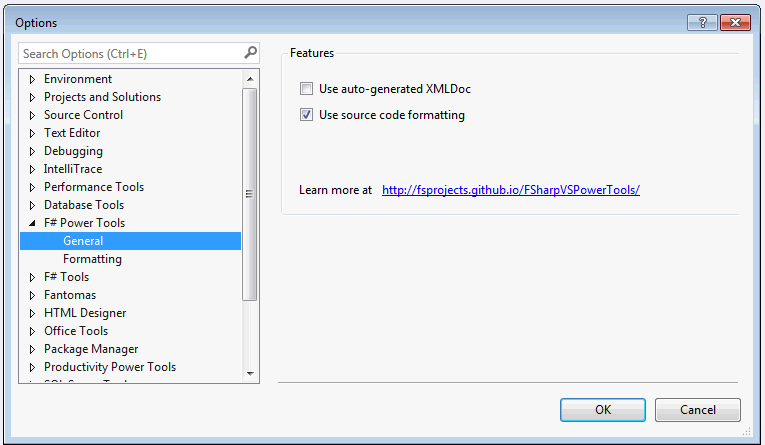
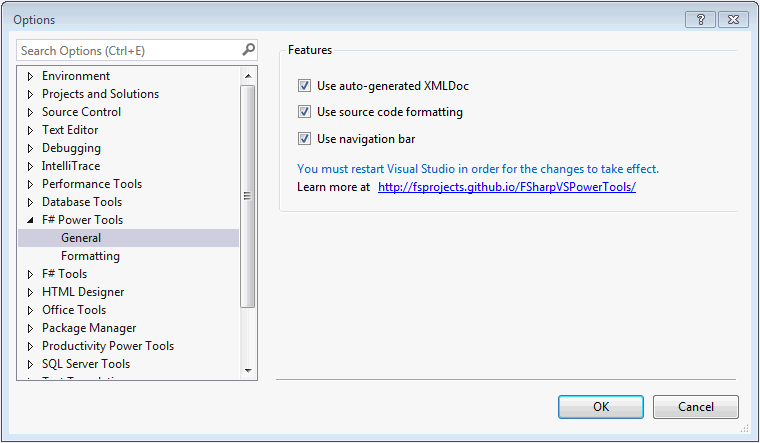
Add navigation bar setting
- [x] Add docs
- [x] Allow users to turn the feature on and off

Changed region(s): [[0.0, 0.0, 0.9987, 1.0], [0.3934, 0.3521, 0.8474, 0.4402], [0.3934, 0.1761, 0.6355, 0.3228]]

diff --git a/src/FSharpVSPowerTools/GeneralOptionsControl.Designer.cs b/src/FSharpVSPowerTools/GeneralOptionsControl.Designer.cs
@@ -29,16 +29,18 @@
         private void InitializeComponent()
         {
             this.grbOptions = new System.Windows.Forms.GroupBox();
+            this.chbNavBar = new System.Windows.Forms.CheckBox();
+            this.lblInfo = new System.Windows.Forms.Label();
             this.lblTitle = new System.Windows.Forms.Label();
             this.lblHome = new System.Windows.Forms.LinkLabel();
             this.chbFormatting = new System.Windows.Forms.CheckBox();
             this.chbXMLDoc = new System.Windows.Forms.CheckBox();
-            this.lblInfo = new System.Windows.Forms.Label();
             this.grbOptions.SuspendLayout();
             this.SuspendLayout();
             // 
             // grbOptions
             // 
+            this.grbOptions.Controls.Add(this.chbNavBar);
             this.grbOptions.Controls.Add(this.lblInfo);
             this.grbOptions.Controls.Add(this.lblTitle);
             this.grbOptions.Controls.Add(this.lblHome);
@@ -49,21 +51,41 @@
             this.grbOptions.Size = new System.Drawing.Size(414, 148);
             this.grbOptions.TabIndex = 0;
             this.grbOptions.TabStop = false;
-            this.grbOptions.Text = "Features";
+            this.grbOptions.Text = "Turn features on/off";
+            // 
+            // chbNavBar
+            // 
+            this.chbNavBar.AutoSize = true;
+            this.chbNavBar.Location = new System.Drawing.Point(16, 76);
+            this.chbNavBar.Name = "chbNavBar";
+            this.chbNavBar.Size = new System.Drawing.Size(115, 17);
+            this.chbNavBar.TabIndex = 6;
+            this.chbNavBar.Text = "Use navigation bar";
+            this.chbNavBar.UseVisualStyleBackColor = true;
+            // 
+            // lblInfo
+            // 
+            this.lblInfo.AutoSize = true;
+            this.lblInfo.ForeColor = System.Drawing.SystemColors.HotTrack;
+            this.lblInfo.Location = new System.Drawing.Point(13, 103);
+            this.lblInfo.Name = "lblInfo";
+            this.lblInfo.Size = new System.Drawing.Size(331, 13);
+            this.lblInfo.TabIndex = 5;
+            this.lblInfo.Text = "You must restart Visual Studio in order for the changes to take effect.";
             // 
             // lblTitle
             // 
             this.lblTitle.AutoSize = true;
             this.lblTitle.Location = new System.Drawing.Point(13, 119);
             this.lblTitle.Name = "lblTitle";
-            this.lblTitle.Size = new System.Drawing.Size(72, 13);
+            this.lblTitle.Size = new System.Drawing.Size(95, 13);
             this.lblTitle.TabIndex = 4;
-            this.lblTitle.Text = "Learn more at";
+            this.lblTitle.Text = "Visit user guides at";
             // 
             // lblHome
             // 
             this.lblHome.AutoSize = true;
-            this.lblHome.Location = new System.Drawing.Point(82, 119);
+            this.lblHome.Location = new System.Drawing.Point(102, 119);
             this.lblHome.Name = "lblHome";
             this.lblHome.Size = new System.Drawing.Size(240, 13);
             this.lblHome.TabIndex = 3;
@@ -96,16 +118,6 @@
             this.chbXMLDoc.Text = "Use auto-generated XMLDoc";
             this.chbXMLDoc.UseVisualStyleBackColor = true;
             // 
-            // lblInfo
-            // 
-            this.lblInfo.AutoSize = true;
-            this.lblInfo.ForeColor = System.Drawing.SystemColors.HotTrack;
-            this.lblInfo.Location = new System.Drawing.Point(13, 103);
-            this.lblInfo.Name = "lblInfo";
-            this.lblInfo.Size = new System.Drawing.Size(331, 13);
-            this.lblInfo.TabIndex = 5;
-            this.lblInfo.Text = "You must restart Visual Studio in order for the changes to take effect.";
-            // 
             // GeneralOptionsControl
             // 
             this.AutoScaleDimensions = new System.Drawing.SizeF(6F, 13F);
@@ -128,5 +140,6 @@
         private System.Windows.Forms.Label lblTitle;
         private System.Windows.Forms.LinkLabel lblHome;
         private System.Windows.Forms.Label lblInfo;
+        private System.Windows.Forms.CheckBox chbNavBar;
     }
 }

diff --git a/src/FSharpVSPowerTools/GeneralOptionsPage.cs b/src/FSharpVSPowerTools/GeneralOptionsPage.cs
@@ -7,23 +7,54 @@ using System.Threading.Tasks;
 using Microsoft.VisualStudio.Shell;
 using System.Runtime.InteropServices;
 using System.Windows.Forms;
+using System.Configuration;
 
 namespace FSharpVSPowerTools
 {
     [ClassInterface(ClassInterfaceType.AutoDual)]
     [Guid("45eabfdf-0a20-4e5e-8780-c3e52360b0f0")]
     public class GeneralOptionsPage : DialogPage
-    {
-        
+    {   
         private GeneralOptionsControl _optionsControl;
+        private const string navBarConfig = "fsharp-navigationbar-enabled";
+        
+        private bool GetNavigationBarConfig()
+        {
+            var b = ConfigurationManager.AppSettings.Get(navBarConfig);
+            bool result;
+            if (b != null && bool.TryParse(b, out result)) return result;
+            return false;
+        }
 
-        // We are letting Visual Studio know that this property value needs to be persisted	       
+        // Return true if set navigation bar config successfully
+        private bool SetNavigationBarConfig(bool v)
+        {
+            try
+            {
+                // Strangely it doesn't work when debugging inside VS but it works in normal circumstances
+                var config = ConfigurationManager.OpenExeConfiguration(ConfigurationUserLevel.None);
+                config.AppSettings.Settings.Remove(navBarConfig);
+                config.AppSettings.Settings.Add(navBarConfig, v.ToString().ToLower());
+                config.Save(ConfigurationSaveMode.Minimal);
+                return true;
+            }
+            catch (Exception)
+            {
+                MessageBox.Show("Can't save navigation bar configuration. Please consider to submit a bug report.", "F# Power Tools");
+                return false;
+            }
+        }
+
+        // We are letting Visual Studio know that these property value needs to be persisted	       
 
         [DesignerSerializationVisibility(DesignerSerializationVisibility.Visible)]
         public bool XMLDocEnabled { get; set; }
 
         [DesignerSerializationVisibility(DesignerSerializationVisibility.Visible)]
         public bool FormattingEnabled { get; set; }
+
+        [DesignerSerializationVisibility(DesignerSerializationVisibility.Visible)]
+        public bool NavBarEnabled { get; set; }
 
         [Browsable(false), DesignerSerializationVisibility(DesignerSerializationVisibility.Hidden)]
         protected override IWin32Window Window
@@ -34,6 +65,7 @@ namespace FSharpVSPowerTools
                 _optionsControl.OptionsPage = this;
                 _optionsControl.XMLDocEnabled = XMLDocEnabled;
                 _optionsControl.FormattingEnabled = FormattingEnabled;
+                _optionsControl.NavBarEnabled = NavBarEnabled;
 
                 return _optionsControl;
             }
@@ -42,6 +74,7 @@ namespace FSharpVSPowerTools
         {
             XMLDocEnabled = true;
             FormattingEnabled = true;
+            NavBarEnabled = GetNavigationBarConfig();
         }
 
         // When user clicks on Apply in Options window, get the path selected from control and set it to property of this class so         
@@ -52,6 +85,11 @@ namespace FSharpVSPowerTools
             {
                 XMLDocEnabled = _optionsControl.XMLDocEnabled;
                 FormattingEnabled = _optionsControl.FormattingEnabled;
+
+                if (SetNavigationBarConfig(_optionsControl.NavBarEnabled))
+                {
+                    NavBarEnabled = _optionsControl.NavBarEnabled;
+                };
             }
             base.OnApply(e);
         }

diff --git a/src/FSharpVSPowerTools/GeneralOptionsControl.cs b/src/FSharpVSPowerTools/GeneralOptionsControl.cs
@@ -23,16 +23,24 @@ namespace FSharpVSPowerTools
             get { return chbXMLDoc.Checked; }
             set { chbXMLDoc.Checked = value;  }
         }
+
         public bool FormattingEnabled
         {
             get { return chbFormatting.Checked; }
             set { chbFormatting.Checked = value; }
         }
 
+        public bool NavBarEnabled
+        {
+            get { return chbNavBar.Checked; }
+            set { chbNavBar.Checked = value; }
+        }
+
         private void GeneralOptionsControl_Load(object sender, EventArgs e)
         {
             chbXMLDoc.Checked = OptionsPage.XMLDocEnabled;
             chbFormatting.Checked = OptionsPage.FormattingEnabled;
+            chbNavBar.Checked = OptionsPage.NavBarEnabled;
         }
 
         private void lblHome_LinkClicked(object sender, LinkLabelLinkClickedEventArgs e)
